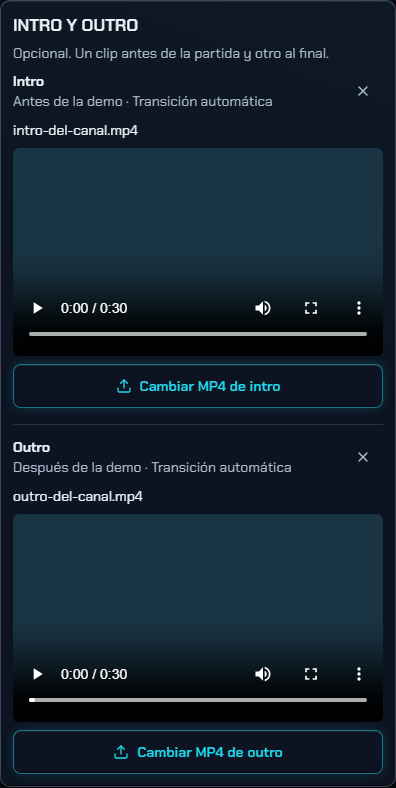
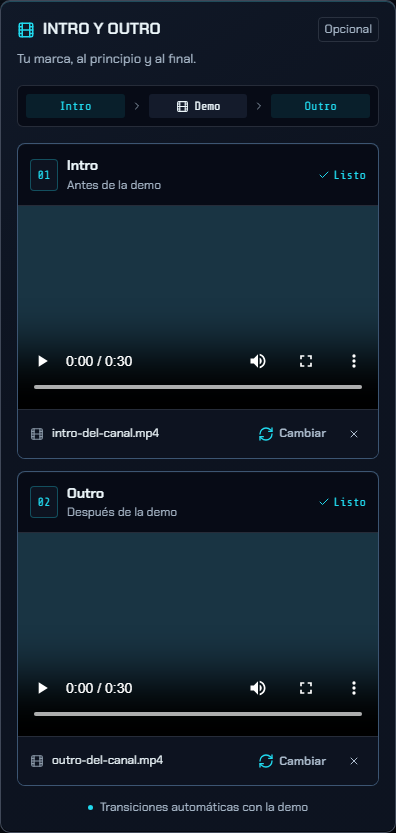
style(full-demo): refine intro and outro media cards

diff --git a/web/components/produce/full-demo-bumpers.tsx b/web/components/produce/full-demo-bumpers.tsx
@@ -1,10 +1,11 @@
 'use client';
 
 import { useEffect, useId, useRef, useState, type ReactNode } from 'react';
-import { Upload, X } from 'lucide-react';
+import { AlertCircle, Check, ChevronRight, Film, RefreshCw, Upload, X } from 'lucide-react';
 import { Button } from '@/components/ui/button';
 import { uploadFullDemoBumper, type FullDemoBumperOptions, type FullDemoDocument, type FullDemoOptions, type FullDemoAssetRef } from '@/lib/full-demo-plan';
 import { FullDemoMediaPreview } from './full-demo-media-preview';
+import styles from './full-demo-bumpers.module.css';
 
 type Props = { options: FullDemoOptions; document: FullDemoDocument | null; onChange: (options: FullDemoOptions) => void; onAssetBusy: (busy: boolean) => void };
 type Slot = keyof FullDemoBumperOptions;
@@ -12,12 +13,28 @@ const EMPTY_BUMPERS: FullDemoBumperOptions = { intro: { enabled: false, video: n
 
 export function FullDemoBumpers({ options, document, onChange, onAssetBusy }: Props): ReactNode {
   const bumpers = options.bumpers ?? EMPTY_BUMPERS;
-  return <div className="space-y-4">
-    {(['intro', 'outro'] as const).map((slot) => <BumperUpload key={slot} slot={slot}
-      asset={bumpers[slot].enabled ? bumpers[slot].video : null}
-      savedName={document?.assets?.find((asset) => asset.ref.id === bumpers[slot].video?.id)?.title}
-      onBusy={onAssetBusy} onChange={(video) => onChange({ ...options, bumpers: { ...bumpers, [slot]: { enabled: video !== null, video } } })} />)}
-  </div>;
+  const headingId = useId();
+  return <section className={`studio-panel ${styles.panel}`} aria-labelledby={headingId}>
+    <header className={styles.heading}>
+      <div className={styles.headingTitle}><Film aria-hidden /><h2 id={headingId}>Intro y outro</h2></div>
+      <span className={styles.optional}>Opcional</span>
+    </header>
+    <p className={styles.description}>Tu marca, al principio y al final.</p>
+    <div className={styles.sequence} role="img" aria-label="Orden del vídeo: intro, transición, demo, transición y outro">
+      <span data-active={bumpers.intro.enabled && !!bumpers.intro.video}>Intro</span>
+      <ChevronRight aria-hidden />
+      <span className={styles.demo}><Film aria-hidden />Demo</span>
+      <ChevronRight aria-hidden />
+      <span data-active={bumpers.outro.enabled && !!bumpers.outro.video}>Outro</span>
+    </div>
+    <div className={styles.slots}>
+      {(['intro', 'outro'] as const).map((slot) => <BumperUpload key={slot} slot={slot}
+        asset={bumpers[slot].enabled ? bumpers[slot].video : null}
+        savedName={document?.assets?.find((asset) => asset.ref.id === bumpers[slot].video?.id)?.title}
+        onBusy={onAssetBusy} onChange={(video) => onChange({ ...options, bumpers: { ...bumpers, [slot]: { enabled: video !== null, video } } })} />)}
+    </div>
+    <p className={styles.transitionNote}><span aria-hidden />Transiciones automáticas con la demo</p>
+  </section>;
 }
 
 function BumperUpload({ slot, asset, savedName, onBusy, onChange }: {
@@ -31,6 +48,7 @@ function BumperUpload({ slot, asset, savedName, onBusy, onChange }: {
   const [error, setError] = useState<string | null>(null);
   const [fileName, setFileName] = useState<{ id: string; name: string } | null>(null);
   const title = slot === 'intro' ? 'Intro' : 'Outro';
+  const actionLabel = asset ? `Cambiar MP4 de ${slot}` : `Subir MP4 de ${slot}`;
   const name = fileName?.id === asset?.id ? fileName?.name : savedName;
   useEffect(() => () => request.current?.abort(), []);
   useEffect(() => {
@@ -60,33 +78,38 @@ function BumperUpload({ slot, asset, savedName, onBusy, onChange }: {
     }
   }
 
-  return <div data-bumper={slot} className="min-w-0 space-y-2 border-t border-border-subtle pt-3 first:border-0 first:pt-0">
-    <div className="flex min-w-0 items-start justify-between gap-2">
-      <div className="min-w-0">
-        <h3 id={id} className="text-body-sm font-semibold text-fg-1">{title}</h3>
-        <p className="text-body-sm text-fg-2">{slot === 'intro' ? 'Antes de la demo' : 'Después de la demo'} · Transición automática</p>
+  return <div data-bumper={slot} data-loaded={!!asset} className={styles.card} role="group" aria-labelledby={id}>
+    <div className={styles.cardHeader}>
+      <div className={styles.cardTitle}>
+        <span className={styles.number} aria-hidden>{slot === 'intro' ? '01' : '02'}</span>
+        <div><h3 id={id}>{title}</h3><p>{slot === 'intro' ? 'Antes de la demo' : 'Después de la demo'}</p></div>
       </div>
-      {asset ? <Button type="button" variant="ghost" size="icon-sm" aria-label={`Quitar ${slot}`} onClick={() => { setError(null); onChange(null); }}><X aria-hidden /></Button> : null}
+      {asset ? <span className={styles.ready}><Check aria-hidden />Listo</span> : null}
     </div>
-    {asset ? <>
-      <p className="truncate text-body-sm text-fg-1" title={name}>{name ?? `${title}.mp4`}</p>
+    {asset ? <div className={styles.preview}>
       <FullDemoMediaPreview asset={asset} video label={`Previsualizar ${slot}`} showDescription={false} preload="metadata" />
-    </> : null}
+    </div> : null}
+    <div className={asset ? styles.loadedControls : undefined}>
+      {asset ? <div className={styles.file}>
+        <Film aria-hidden /><span title={name}>{name ?? `${title}.mp4`}</span>
+      </div> : null}
     <input ref={input} className="sr-only" type="file" accept=".mp4,video/mp4" tabIndex={-1} aria-label={`Archivo MP4 de ${slot}`} onChange={(event) => {
       const file = event.target.files?.[0]; event.target.value = ''; if (file) void upload(file);
     }} />
-    <Button type="button" variant="outline-primary" className="group relative w-full overflow-hidden motion-reduce:transition-none"
+    <Button type="button" variant="ghost" className={`${styles.upload} ${asset ? styles.replace : styles.empty}`}
+      aria-label={uploading ? `Subiendo ${slot}…` : actionLabel}
       loading={uploading} loadingText={`Subiendo ${slot}…`} onClick={() => input.current?.click()}
       onPointerMove={(event) => {
         const box = event.currentTarget.getBoundingClientRect();
         event.currentTarget.style.setProperty('--pointer-x', `${event.clientX - box.left}px`);
         event.currentTarget.style.setProperty('--pointer-y', `${event.clientY - box.top}px`);
       }}>
-      <span aria-hidden className="pointer-events-none absolute inset-0 opacity-0 transition-opacity duration-(--dur-fast) group-hover:opacity-100 motion-reduce:transition-none"
-        style={{ background: 'radial-gradient(110px circle at var(--pointer-x,50%) var(--pointer-y,50%),color-mix(in oklch,var(--primary) 24%,transparent),transparent)' }} />
-      {!uploading ? <Upload aria-hidden className="relative transition-transform duration-(--dur-fast) motion-safe:group-hover:-translate-y-0.5" /> : null}
-      <span className="relative">{asset ? `Cambiar MP4 de ${slot}` : `Subir MP4 de ${slot}`}</span>
+      <span aria-hidden data-bumper-glow className={styles.glow} />
+      {asset ? <RefreshCw aria-hidden className={styles.replaceIcon} /> : <span className={styles.uploadIcon}><Upload aria-hidden /></span>}
+      <span className={styles.uploadCopy}>{asset ? 'Cambiar' : 'Subir un MP4'}{!asset ? <span>Selecciona tu clip de {slot === 'intro' ? 'apertura' : 'cierre'}</span> : null}</span>
     </Button>
-    {error ? <p role="alert" className="text-body-sm text-destructive">{error}</p> : null}
+    {asset ? <Button type="button" variant="ghost" size="icon-xs" className={styles.remove} aria-label={`Quitar ${slot}`} title={`Quitar ${slot}`} onClick={() => { setError(null); onChange(null); }}><X aria-hidden /></Button> : null}
+    </div>
+    {error ? <div role="alert" className={styles.error}><AlertCircle aria-hidden /><p>{error}{asset ? <span>Tu vídeo anterior sigue seleccionado.</span> : null}</p></div> : null}
   </div>;
 }

diff --git a/web/components/produce/full-demo-bumpers.module.css b/web/components/produce/full-demo-bumpers.module.css
@@ -1,0 +1,85 @@
+.panel {
+  container: bumpers / inline-size;
+  min-width: 0;
+  padding: 16px;
+  background: linear-gradient(145deg, color-mix(in oklch, var(--primary) 4%, var(--surface-2)), var(--surface-2) 38%);
+  box-shadow: inset 0 1px 0 color-mix(in oklch, var(--primary) 20%, transparent), var(--elev-1);
+}
+
+.heading, .headingTitle, .cardHeader, .cardTitle, .file, .ready {
+  display: flex;
+  align-items: center;
+}
+
+.heading, .cardHeader { justify-content: space-between; gap: 8px; }
+.headingTitle { min-width: 0; gap: 8px; }
+.headingTitle > svg { width: 18px; height: 18px; flex-shrink: 0; color: var(--primary); }
+.heading h2 { font: 600 16px/1.3 var(--font-display); text-transform: uppercase; color: var(--fg-1); }
+.optional { flex-shrink: 0; font-size: 12px; color: var(--fg-2); border: 1px solid var(--border-subtle); border-radius: 4px; padding: 2px 6px; }
+.description { margin-top: 7px; font-size: 13px; line-height: 1.5; color: var(--fg-2); }
+
+.sequence { display: flex; align-items: center; gap: 6px; margin: 16px 0; padding: 8px; border: 1px solid var(--border-subtle); border-radius: 6px; background: var(--surface-1); }
+.sequence > span { display: flex; align-items: center; justify-content: center; flex: 1; min-width: 0; gap: 6px; padding: 5px 0; border-radius: 3px; font: 12px/1.2 var(--font-mono); color: var(--fg-2); }
+.sequence > svg { width: 12px; height: 12px; color: var(--fg-3); flex-shrink: 0; }
+.sequence .demo { background: var(--surface-3); color: var(--fg-1); }
+.demo > svg { width: 13px; height: 13px; }
+.sequence > [data-active="true"] { background: color-mix(in oklch, var(--primary) 10%, transparent); color: var(--primary); }
+
+.slots { display: grid; gap: 12px; }
+.card { min-width: 0; overflow: hidden; border: 1px solid var(--border-subtle); border-radius: 8px; background: var(--surface-1); box-shadow: inset 0 1px 0 color-mix(in oklch, white 3%, transparent); }
+.card[data-loaded="true"] { border-color: color-mix(in oklch, var(--primary) 28%, var(--border-subtle)); }
+.cardHeader { padding: 12px; }
+.cardTitle { gap: 9px; min-width: 0; }
+.number { display: grid; place-items: center; width: 28px; height: 32px; flex-shrink: 0; border: 1px solid var(--border-subtle); border-radius: 4px; background: var(--surface-2); font: 12px var(--font-mono); color: var(--fg-3); }
+.card[data-loaded="true"] .number { color: var(--primary); border-color: color-mix(in oklch, var(--primary) 30%, transparent); }
+.cardTitle h3 { font-size: 14px; line-height: 1.3; font-weight: 600; color: var(--fg-1); }
+.cardTitle p { margin-top: 3px; font-size: 12px; line-height: 1.3; color: var(--fg-2); }
+.ready { gap: 4px; font: 12px var(--font-mono); color: var(--primary); }
+.ready svg { width: 12px; height: 12px; }
+.preview { border-block: 1px solid var(--border-subtle); }
+.preview video { border-radius: 0; }
+.loadedControls { display: flex; align-items: center; gap: 4px; padding: 8px; background: var(--surface-2); }
+.loadedControls:has([data-loading="true"]) .file { display: none; }
+.loadedControls [data-loading="true"] { flex: 1; }
+.file { flex: 1; gap: 8px; min-width: 0; padding-left: 4px; }
+.file > svg { width: 14px; height: 14px; flex-shrink: 0; color: var(--fg-3); }
+.file > span { flex: 1; min-width: 0; overflow: hidden; text-overflow: ellipsis; white-space: nowrap; font-size: 12px; color: var(--fg-1); }
+.remove:hover { color: var(--destructive); background: color-mix(in oklch, var(--destructive) 10%, transparent); }
+
+.upload { position: relative; display: flex; width: calc(100% - 24px); margin: 0 12px 12px; overflow: hidden; color: var(--fg-1); border: 1px dashed color-mix(in oklch, var(--primary) 32%, var(--border-subtle)); border-radius: 6px; background: linear-gradient(155deg, color-mix(in oklch, var(--primary) 4%, var(--surface-2)), var(--surface-1)); transition: border-color 160ms, background-color 160ms, box-shadow 160ms; }
+.empty { flex-direction: column; gap: 10px; height: 118px; padding: 14px 8px; }
+.upload:hover, .upload:focus-visible { color: var(--fg-1); border-color: var(--primary); background-color: var(--surface-2); box-shadow: var(--glow-primary-sm); }
+.glow { position: absolute; inset: 0; pointer-events: none; opacity: 0; background: radial-gradient(150px circle at var(--pointer-x,50%) var(--pointer-y,50%), color-mix(in oklch, var(--primary) 16%, transparent), transparent); transition: opacity 160ms; }
+.upload:hover .glow, .upload:focus-visible .glow { opacity: 1; }
+.uploadIcon { position: relative; display: grid; place-items: center; width: 36px; height: 36px; border: 1px solid color-mix(in oklch, var(--primary) 22%, transparent); border-radius: 8px; color: var(--primary); background: color-mix(in oklch, var(--primary) 6%, var(--surface-2)); transition: transform 160ms, border-color 160ms; }
+.upload:hover .uploadIcon { transform: translateY(-3px); border-color: var(--primary); }
+.uploadCopy { position: relative; font-size: 13px; line-height: 1.4; font-weight: 600; }
+.uploadCopy > span { display: block; margin-top: 4px; font-size: 12px; font-weight: 400; color: var(--fg-2); }
+.replace { width: auto; height: 32px; margin: 0; padding: 4px 7px; gap: 5px; border-style: solid; border-color: transparent; background: transparent; color: var(--fg-2); }
+.replace .uploadCopy { font-size: 12px; }
+.replaceIcon { position: relative; color: var(--primary); }
+.replace:hover { border-color: var(--border-subtle); }
+.upload[data-loading="true"] { border-style: solid; background: var(--surface-2); }
+.error { display: flex; align-items: flex-start; gap: 7px; padding: 10px 12px; border-top: 1px solid color-mix(in oklch, var(--destructive) 30%, transparent); background: color-mix(in oklch, var(--destructive) 6%, var(--surface-1)); color: var(--destructive); font-size: 12px; line-height: 1.5; }
+.error > svg { width: 14px; height: 14px; flex-shrink: 0; margin-top: 2px; }
+.error p { min-width: 0; overflow-wrap: anywhere; }
+.error span { display: block; margin-top: 4px; color: var(--fg-2); }
+.transitionNote { display: flex; align-items: center; justify-content: center; gap: 7px; margin-top: 13px; font-size: 12px; line-height: 1.4; color: var(--fg-2); }
+.transitionNote > span { width: 5px; height: 5px; flex-shrink: 0; border-radius: 50%; background: var(--primary); }
+
+@container bumpers (min-width: 36rem) {
+  .slots { grid-template-columns: repeat(2, minmax(0, 1fr)); align-items: start; }
+}
+
+@container bumpers (max-width: 17rem) {
+  .heading { flex-wrap: wrap; }
+  .cardHeader { padding-inline: 10px; }
+  .number { display: none; }
+  .replace .uploadCopy { display: none; }
+  .transitionNote { font-size: 12px; }
+}
+
+@media (prefers-reduced-motion: reduce) {
+  .upload, .glow, .uploadIcon { transition: none; }
+  .upload:hover .uploadIcon { transform: none; }
+}

diff --git a/web/e2e/full-demo.spec.ts b/web/e2e/full-demo.spec.ts
@@ -164,7 +164,7 @@ test.describe('Full POV simplified constructor', () => {
     await expect(page.getByText('Vídeo: Archivo pendiente de revisar en el plan', { exact: true })).toBeVisible();
   });
 
-  for (const width of [390, 1440]) {
+  for (const width of [390, 1024, 1440]) {
     test(`bumper MP4 states, hover, persistence and generation at ${width}px`, async ({ page }, testInfo) => {
       await page.setViewportSize({ width, height: 1000 });
       const document = editorial();
@@ -211,10 +211,19 @@ test.describe('Full POV simplified constructor', () => {
       await expect(page.getByRole('checkbox', { name: 'Incluir intro', exact: true })).toHaveCount(0);
       await card.screenshot({ path: testInfo.outputPath('01-empty.png') });
       await button.hover();
-      const glow = button.locator('span[aria-hidden]');
+      const glow = button.locator('[data-bumper-glow]');
       await expect(glow).toHaveCSS('opacity', '1');
       expect(await button.evaluate((el) => el.style.getPropertyValue('--pointer-x'))).not.toBe('');
       await card.screenshot({ path: testInfo.outputPath('02-hover.png') });
+      await page.mouse.move(0, 0);
+      await button.focus();
+      await page.keyboard.press('Shift+Tab');
+      await page.keyboard.press('Tab');
+      await expect(button).toBeFocused();
+      await expect(glow).toHaveCSS('opacity', '1');
+      await page.emulateMedia({ reducedMotion: 'reduce' });
+      await expect(button).toHaveCSS('transition-property', 'none');
+      await page.emulateMedia({ reducedMotion: 'no-preference' });
       // Cancelling the native picker leaves both slots empty.
       const chooser = page.waitForEvent('filechooser');
       await button.click();
@@ -247,6 +256,10 @@ test.describe('Full POV simplified constructor', () => {
       await expect(page.getByText('intro.mp4', { exact: true })).toBeVisible();
       await expect(page.getByText('outro.mp4', { exact: true })).toBeVisible();
       await card.screenshot({ path: testInfo.outputPath('06-both-restored.png') });
+      expect(await page.evaluate(() => window.document.documentElement.scrollWidth <= window.innerWidth)).toBe(true);
+      const longName = `${'clip-del-canal-'.repeat(14)}.mp4`;
+      await input.setInputFiles({ ...mp4, name: longName });
+      await expect(page.getByText(longName, { exact: true })).toBeVisible();
       expect(await page.evaluate(() => window.document.documentElement.scrollWidth <= window.innerWidth)).toBe(true);
       await page.getByRole('button', { name: 'Quitar intro', exact: true }).click();
       await expect(button).toBeVisible();
@@ -407,11 +420,18 @@ test.describe('Full POV simplified constructor', () => {
   test('storage failures keep the durable Full Demo creation flow available', async ({ page }) => {
     const document = editorial();
     let generated = 0;
+    let recordingObserved = false;
     await page.addInitScript(() => Object.defineProperty(window, 'localStorage', {
       configurable: true,
       get() { throw new Error('Storage blocked'); },
     }));
     await stubParsedMatch(page, document);
+    // Admission advances server state. Keeping "parsed" forever lets the
+    // background reconciler re-drive the accepted request after navigation.
+    await page.route(`**/api/demos/${JOB}/status`, (route) => {
+      recordingObserved = generated > 0;
+      return route.fulfill({ json: { status: recordingObserved ? 'recording' : 'parsed' } });
+    });
     await page.route(`**/api/demos/${JOB}/full-demo/plan`, async (route) => {
       if (route.request().method() !== 'POST') return route.fallback();
       const body: unknown = route.request().postDataJSON();
@@ -422,7 +442,8 @@ test.describe('Full POV simplified constructor', () => {
     await gotoStudio(page, PRODUCE_FULL);
     await page.getByRole('checkbox', { name: 'Incluir voces del equipo', exact: true }).uncheck();
     await page.getByRole('button', { name: 'Crear Full Demo', exact: true }).click();
-    await expect.poll(() => generated).toBe(1);
+    await expect.poll(() => recordingObserved).toBe(true);
+    expect(generated).toBe(1);
   });
 
   test('an unavailable or incompatible plan keeps creation disabled until a valid retry', async ({ page }) => {

diff --git a/web/components/produce/full-pov-producer.tsx b/web/components/produce/full-pov-producer.tsx
@@ -170,7 +170,7 @@ export function FullPovProducer({ active, matchId, match, recBusy, seriesId }: F
             <FullDemoOverlays options={options} map={match.map} onChange={change} onAssetBusy={(value) => setBusy(value ? 'asset' : null)} />
           </FullDemoGroup>
           <FullDemoGroup title="Sponsor" note="Opcional. Añade un vídeo para incluirlo."><FullDemoSponsor options={options} document={document} onChange={change} onAssetBusy={(value) => setBusy(value ? 'asset' : null)} onPrepareRoundBoundaries={prepareSponsorRoundBoundaries} /></FullDemoGroup>
-          <FullDemoGroup title="Intro y outro" note="Opcional. Un clip antes de la partida y otro al final."><FullDemoBumpers options={options} document={document} onChange={change} onAssetBusy={(value) => setBusy(value ? 'asset' : null)} /></FullDemoGroup>
+          <FullDemoBumpers options={options} document={document} onChange={change} onAssetBusy={(value) => setBusy(value ? 'asset' : null)} />
         </div>
       </div>
     </fieldset> : null}
